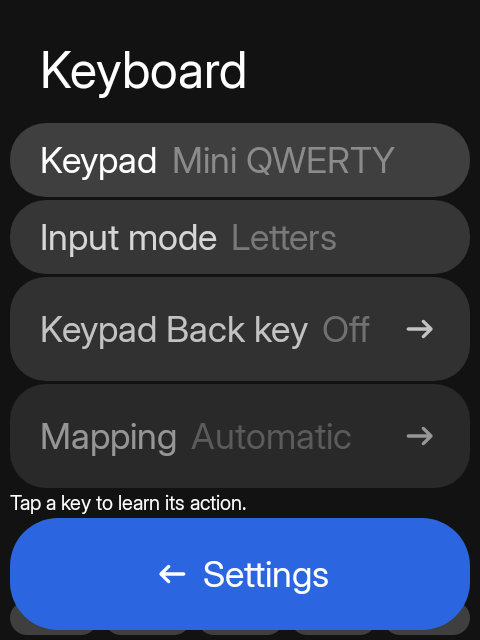
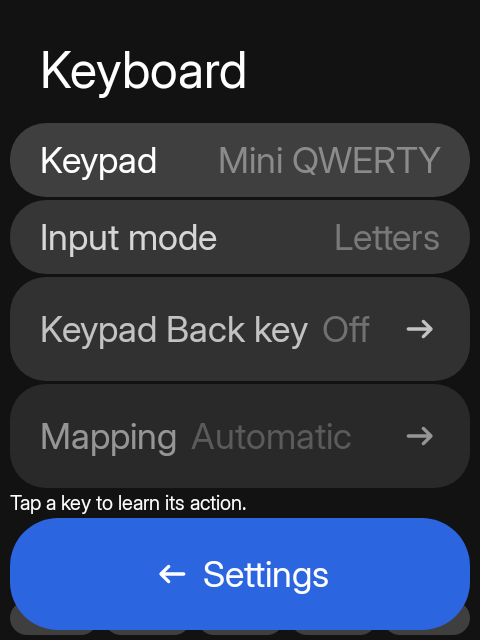
Keep system actions compact and right-align toggle values
(cherry picked from commit 039e5cec483944870ec1c27037290957a16dce19)

Changed region(s): [[0.3438, 0.2188, 0.9062, 0.2812], [0.4688, 0.3438, 0.9062, 0.4062]]

diff --git a/app/src/main/java/hrln/interactive/sidekit/apps/settings/SettingsScreen.kt b/app/src/main/java/hrln/interactive/sidekit/apps/settings/SettingsScreen.kt
@@ -68,17 +68,18 @@ internal fun SettingsHome(onHome: () -> Unit, onAbout: () -> Unit, onCaseColour:
         SidekitList(padding, state = list) {
             // Toggles act in place: compact rows, no arrow.
             item {
-                SidekitItem("Launcher default", Modifier.height(CompactRowHeight).listFade(list, 0), secondary = if (listLayout) "List" else "Grid", onClick = {
+                SidekitItem("Launcher default", Modifier.height(CompactRowHeight).listFade(list, 0), secondary = if (listLayout) "List" else "Grid", secondaryToEnd = true, onClick = {
                     prefs.listLayout = !prefs.listLayout
                     revision++
                 })
             }
+            // Opens a floating system dialog rather than a Sidekit page, so it stays a compact row.
+            item { SidekitItem("Home app", Modifier.height(CompactRowHeight).listFade(list, 1), secondary = if (home) "Sidekit" else "Choose", secondaryToEnd = true, onClick = { open(Settings.ACTION_HOME_SETTINGS) }) }
             // Everything below opens another page: full-height rows with a link arrow.
-            item { SidekitItem("Arrange apps", Modifier.listFade(list, 1), showLinkArrow = true, onClick = onArrange) }
-            item { SidekitItem("Case colour", Modifier.listFade(list, 2), secondary = caseColour?.label ?: "Blue", showLinkArrow = true, onClick = onCaseColour) }
+            item { SidekitItem("Arrange apps", Modifier.listFade(list, 2), showLinkArrow = true, onClick = onArrange) }
+            item { SidekitItem("Case colour", Modifier.listFade(list, 3), secondary = caseColour?.label ?: "Blue", showLinkArrow = true, onClick = onCaseColour) }
             // All keypad preferences live together on the Keyboard page, with the key diagram.
-            item { SidekitItem("Keyboard", Modifier.listFade(list, 3), showLinkArrow = true, onClick = onKeyboard) }
-            item { SidekitItem("Home app", Modifier.listFade(list, 4), secondary = if (home) "Sidekit" else "Choose", showLinkArrow = true, onClick = { open(Settings.ACTION_HOME_SETTINGS) }) }
+            item { SidekitItem("Keyboard", Modifier.listFade(list, 4), showLinkArrow = true, onClick = onKeyboard) }
             item { SidekitItem("Hide apps", showLinkArrow = true, onClick = onHiddenApps) }
             // Device settings live on their own page, so this screen stays Sidekit's own settings.
             item { SidekitItem("System settings", showLinkArrow = true, onClick = onSystem) }

diff --git a/sidekit/src/main/java/hrln/interactive/sidekit/design/components/Item.kt b/sidekit/src/main/java/hrln/interactive/sidekit/design/components/Item.kt
@@ -18,6 +18,7 @@ import androidx.compose.ui.Modifier
 import androidx.compose.ui.draw.clip
 import androidx.compose.ui.graphics.Color
 import androidx.compose.ui.semantics.Role
+import androidx.compose.ui.text.style.TextAlign
 import androidx.compose.ui.text.style.TextDecoration
 import androidx.compose.ui.unit.Dp
 import hrln.interactive.sidekit.design.icons.SidekitIcon
@@ -76,6 +77,8 @@ fun SidekitItem(
     title: String,
     modifier: Modifier = Modifier,
     secondary: String? = null,
+    /** Put the secondary value at the row's trailing edge (toggles and compact state rows). */
+    secondaryToEnd: Boolean = false,
     icon: SidekitIcon? = null,
     showLinkArrow: Boolean = false,
     colour: ItemColour = ItemColour.Primary,
@@ -98,7 +101,12 @@ fun SidekitItem(
             if (icon != null) SidekitIconImage(icon)
             SidekitText(title, textDecoration = titleDecoration)
             if (secondary != null) {
-                SidekitText(secondary, Modifier.weight(1f), color = SidekitTheme.colors.surfaceA6)
+                SidekitText(
+                    secondary,
+                    Modifier.weight(1f),
+                    color = SidekitTheme.colors.surfaceA6,
+                    textAlign = if (secondaryToEnd) TextAlign.End else null
+                )
             }
             // The arrow marks a row that opens another page, whether or not it also shows a value.
             if (showLinkArrow) {

diff --git a/app/src/main/java/hrln/interactive/sidekit/apps/settings/KeyboardSettingsScreen.kt b/app/src/main/java/hrln/interactive/sidekit/apps/settings/KeyboardSettingsScreen.kt
@@ -68,6 +68,7 @@ internal fun KeyboardSettingsScreen(back: () -> Unit, onKeypadMapping: () -> Uni
                     "Keypad",
                     Modifier.height(CompactRowHeight).listFade(list, 0),
                     secondary = custom?.let { "${it.label} · custom" } ?: module.label,
+                    secondaryToEnd = true,
                     onClick = {
                         if (custom != null) {
                             onKeypadMapping()
@@ -83,6 +84,7 @@ internal fun KeyboardSettingsScreen(back: () -> Unit, onKeypadMapping: () -> Uni
                     "Input mode",
                     Modifier.height(CompactRowHeight).listFade(list, 1),
                     secondary = if (inputMode == T9Mode.Numeric) "Numbers" else "Letters",
+                    secondaryToEnd = true,
                     onClick = {
                         prefs.inputMode = T9Mode.entries[(prefs.inputMode.ordinal + 1) % T9Mode.entries.size]
                         keypad?.let { prefs.applyInputDefault(it) }
